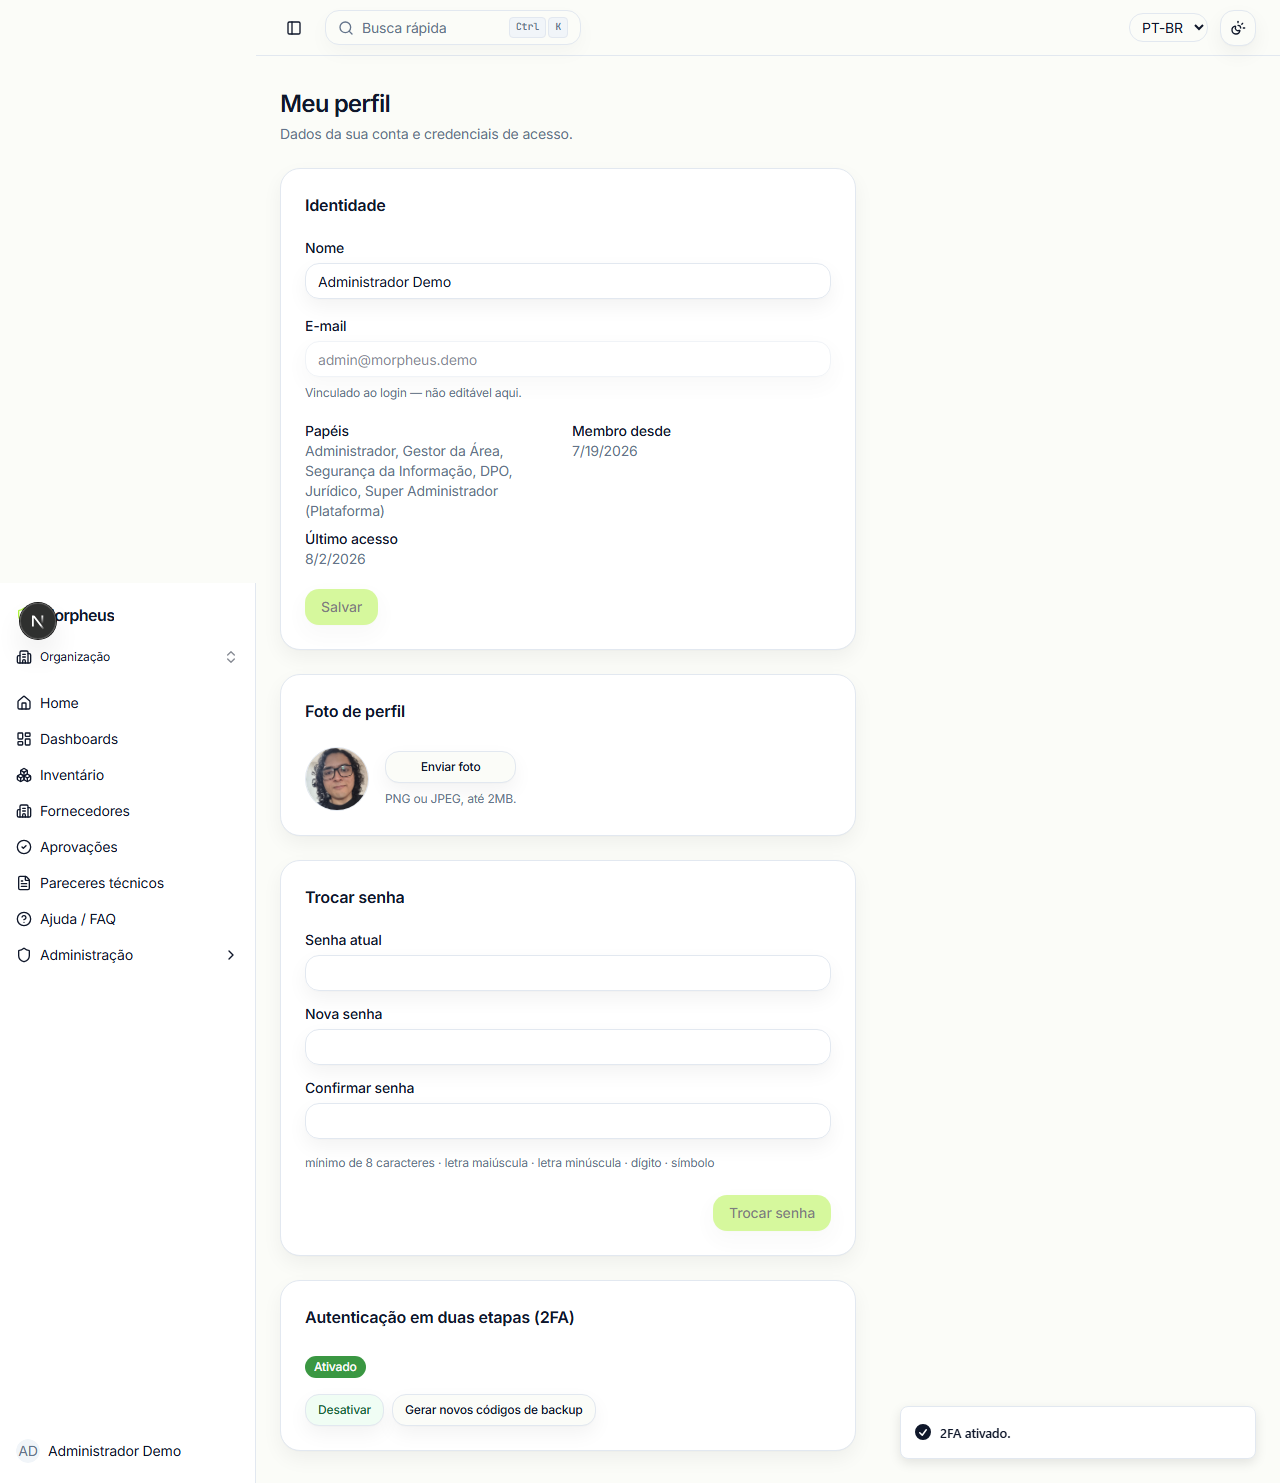
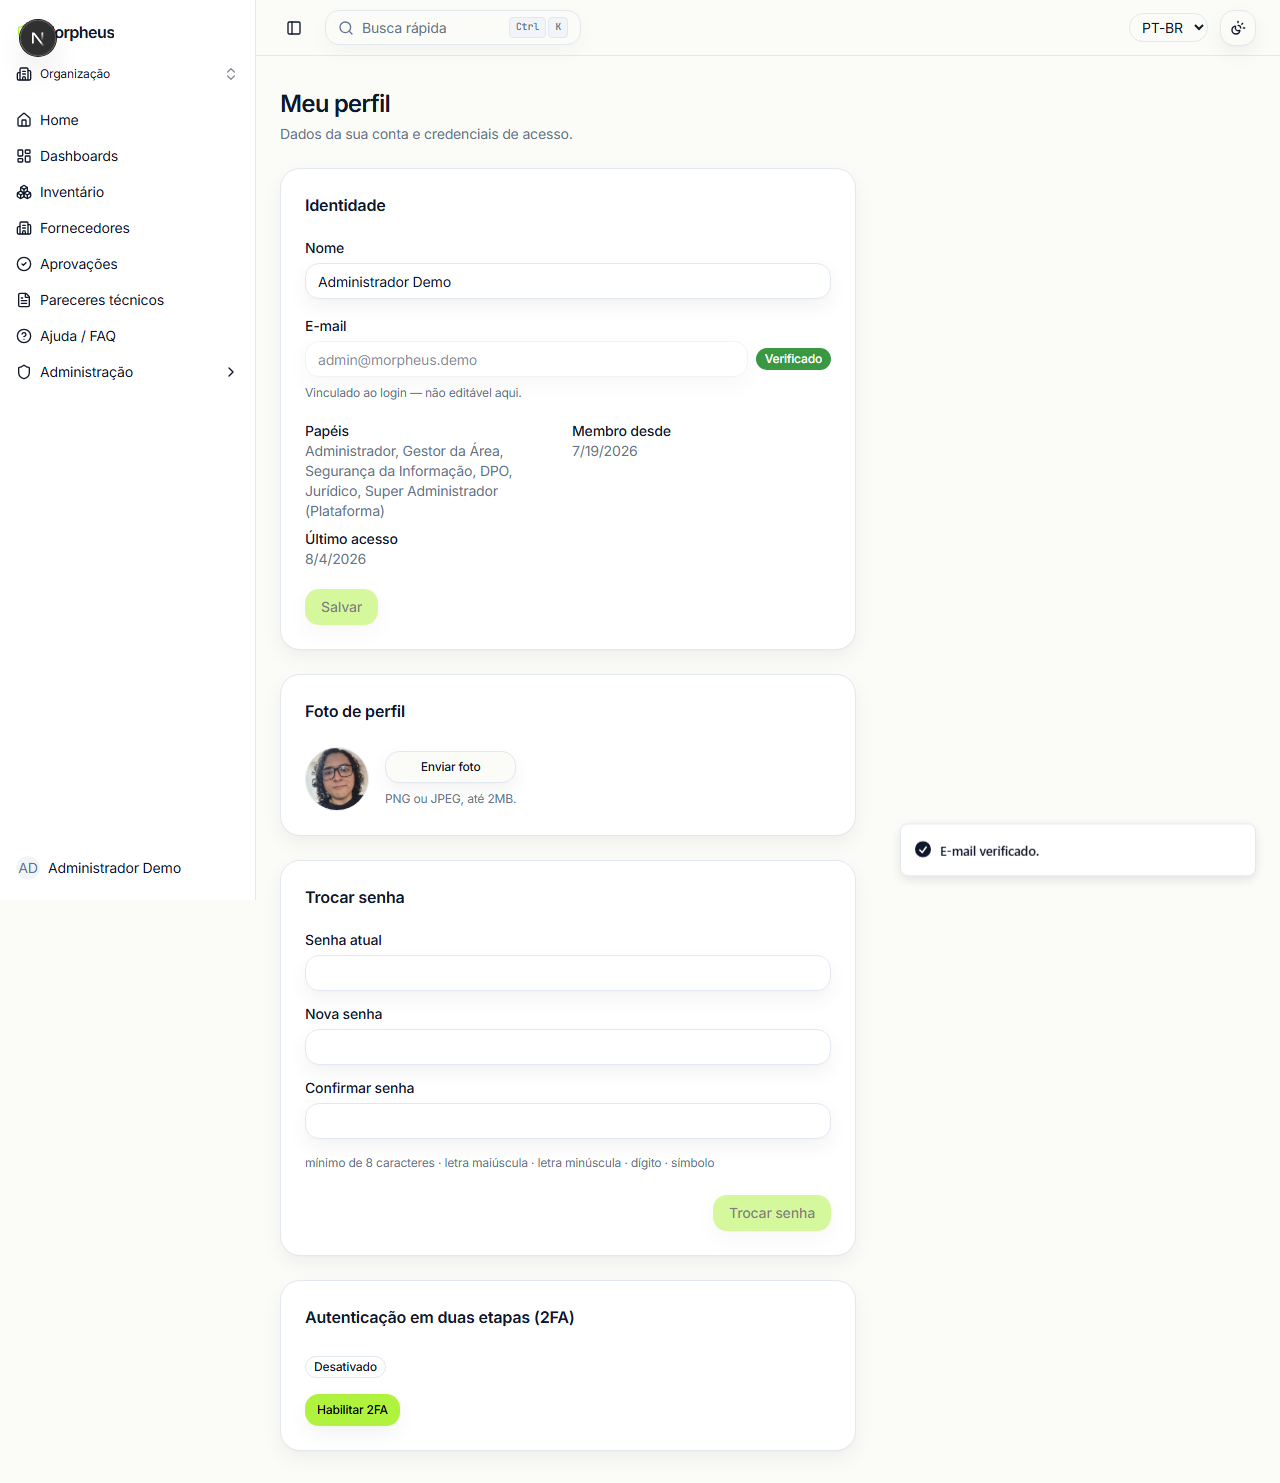
docs(auth): Fase 7 - portfolio do login passwordless (#123)
Screenshots (PT-BR+EN) do fluxo passwordless e das telas com UX
alterada (botão novo no login, badge de e-mail verificado no perfil,
3ª seção no admin de políticas). README atualizado com o mecanismo e
as duas decisões mais sensíveis da feature. Fecha o arco de 7 fases.

diff --git a/README.md b/README.md
@@ -79,6 +79,14 @@ avaliado ou está com reavaliação vencida/próxima.
   dependência de terceiros. Toggle de recomendação por plataforma inteira, e revisão de segurança
   dedicada encontrou e corrigiu um bypass real (login via SSO ignorava o segundo fator) antes de ir
   ao ar.
+- **Login sem senha (passwordless)**: código de 6 dígitos por e-mail, digitado - não um link
+  clicável, escolha deliberada para não depender de scanners de e-mail corporativo não
+  pré-consumirem o token. Condicionado a um pré-requisito formal de e-mail verificado
+  (autoatendimento em `/profile`) e a um toggle de plataforma inteira. Decisão de design deliberada:
+  posse do e-mail substitui os dois fatores tradicionais nesse caminho específico, pulando o 2FA
+  mesmo em contas com TOTP habilitado - a revisão de segurança dedicada dessa feature também
+  encontrou e corrigiu um achado real antes de ir ao ar (o toggle de plataforma não interrompia um
+  login já em andamento com um código ainda válido).
 - **Política de senha configurável, plataforma inteira**: tamanho mínimo e classes de caractere
   exigidas (maiúscula/minúscula/dígito/símbolo) definidos por super-admin em `/admin/platform-policy`
   e aplicados a todo tenant - autoatendimento de troca de senha e reset administrativo reusam a
@@ -137,6 +145,10 @@ Processo completo (camadas de risco, histórico de cada janela) em
 | Códigos de backup do 2FA | Login - código de verificação |
 | --- | --- |
 | ![Códigos de backup do 2FA](./docs/screenshots/profile-2fa-backup-codes.png) | ![Login - código de verificação](./docs/screenshots/login-2fa.png) |
+
+| Login - sem senha |
+| --- |
+| ![Login - sem senha](./docs/screenshots/login-passwordless.png) |
 
 | Políticas de plataforma (super-admin) |
 | --- |
@@ -279,6 +291,13 @@ overdue/upcoming reassessment.
   with reauthentication) - own implementation on top of `node:crypto`, no third-party dependency.
   Platform-wide recommendation toggle, and a dedicated security review found and fixed a real bypass
   (SSO login skipped the second factor) before it shipped.
+- **Passwordless sign-in**: a typed 6-digit email code, not a clickable link - a deliberate choice
+  so corporate email scanners can't pre-consume the token. Gated behind a formal verified-email
+  prerequisite (self-service at `/profile`) and a platform-wide toggle. Deliberate design decision:
+  email possession substitutes both traditional factors on this specific path, skipping 2FA even for
+  accounts with TOTP enabled - that feature's dedicated security review also found and fixed a real
+  issue before shipping (the platform toggle wasn't actually interrupting a login already in progress
+  with a still-valid code).
 - **Platform-wide, configurable password policy**: minimum length and required character classes
   (uppercase/lowercase/digit/symbol) set by a super-admin at `/admin/platform-policy` and enforced
   for every tenant - self-service password change and admin-triggered resets reuse the same
@@ -336,6 +355,10 @@ Full process (risk tiers, per-window history) in [`docs/security.md`](./docs/sec
 | 2FA backup codes | Login - verification code |
 | --- | --- |
 | ![2FA backup codes](./docs/screenshots/profile-2fa-backup-codes-en.png) | ![Login - verification code](./docs/screenshots/login-2fa-en.png) |
+
+| Login - passwordless |
+| --- |
+| ![Login - passwordless](./docs/screenshots/login-passwordless-en.png) |
 
 | Platform policies (super-admin) |
 | --- |

diff --git a/docs/changelog/2026-08.md b/docs/changelog/2026-08.md
@@ -855,3 +855,24 @@ ver [`../CHANGELOG.md`](../CHANGELOG.md) para o índice completo.
     HTML gerado (e-mail de código) só interpola o próprio código de 6 dígitos gerado no servidor.
   - `pnpm --filter @morpheus/api lint` (escopado aos 2 arquivos tocados) / `typecheck` / `test`
     (342 testes, 37 suites) / `build` verdes.
+- **Login passwordless, Fase 7: portfólio.** Fecha o arco de 7 fases inteiro e, com ele, o item mais
+  antigo ainda aberto do backlog de Autenticação (registrado em 2026-07-26 como item 1, adiado
+  repetidas vezes em favor de política de senha, perfil e 2FA).
+  - Screenshots novos (PT-BR+EN): `login-passwordless` (passo de código, campo vazio - nenhum código
+    real de 6 dígitos capturado, mesmo cuidado já tomado com segredos TOTP no arco do 2FA).
+    Regenerados (mudança de UX, gatilho automático já estabelecido no projeto):
+    `login-organizacao` (agora mostra o botão "Entrar sem senha"), `profile` (badge "Verificado" real,
+    obtido verificando o e-mail de `admin@morpheus.demo` pela UI de verdade), `admin-platform-policy`
+    (3ª seção "Login sem senha", toggle ligado).
+  - `README.md` (PT-BR+EN): novo bullet em "Controles de segurança implementados" descrevendo o
+    mecanismo (código digitado, não link clicável), o pré-requisito de e-mail verificado, e
+    reafirmando as duas decisões mais sensíveis da feature - o pulo deliberado do 2FA e o achado real
+    de kill-switch da Fase 6, mesmo padrão já usado no bullet de 2FA (que também nomeia o bypass de
+    SSO encontrado e corrigido). Nova linha na tabela de screenshots, ambas as línguas.
+  - `docs/CHANGELOG.md`: ponteiro de Agosto atualizado de "início do login passwordless" pra refletir
+    o arco completo (Fases 1-7).
+  - Estado de teste (`emailVerified`, toggle de plataforma, linhas de `one_time_codes`) revertido
+    depois da captura dos screenshots; scripts descartáveis apagados.
+  - Milestone "Login passwordless" fechado após o merge desta fase - fecha o backlog de Autenticação
+    aberto em 2026-07-26 (política de senha → perfil → 2FA → aprovação de inventário manual →
+    passwordless, os 5 itens do arco de autenticação/segurança da conta, todos completos).

diff --git a/docs/CHANGELOG.md b/docs/CHANGELOG.md
@@ -14,8 +14,9 @@ uma linha do que aconteceu.
 
 - [**Agosto**](./changelog/2026-08.md) — "Perfumaria" de PR, tela de perfil de autoatendimento, 2FA
   via TOTP (RFC 6238, com um bypass de SSO real encontrado e corrigido na revisão de segurança), fluxo
-  de aprovação para itens de inventário manuais (Fases 1-5, item mais antigo do backlog), e início do
-  login passwordless (código por e-mail).
+  de aprovação para itens de inventário manuais (Fases 1-5, item mais antigo do backlog), e login
+  passwordless completo (código por e-mail, pulando 2FA por decisão deliberada, com um achado real de
+  kill-switch corrigido na revisão de segurança — Fases 1-7, fecha o backlog de Autenticação).
 - [**Julho**](./changelog/2026-07.md) — Construção inicial do produto (roteiro técnico Etapas 1-16 +
   plano pós-roteiro Etapas A-I), multi-tenancy e administração avançada, backlog pós-uso, renovação
   anual de homologação, avaliação de risco de fornecedores, vínculo Inventory↔Vendor, SSDLC/CI, e
